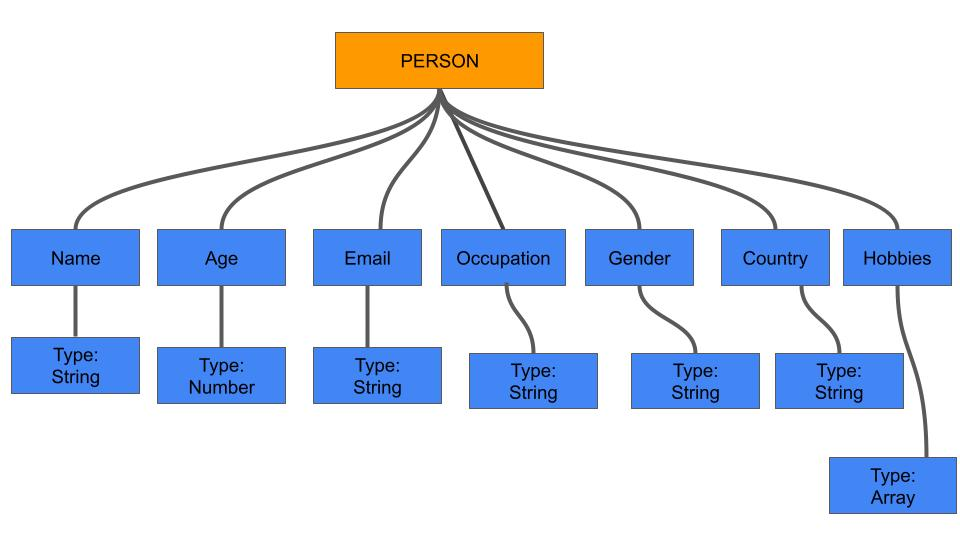
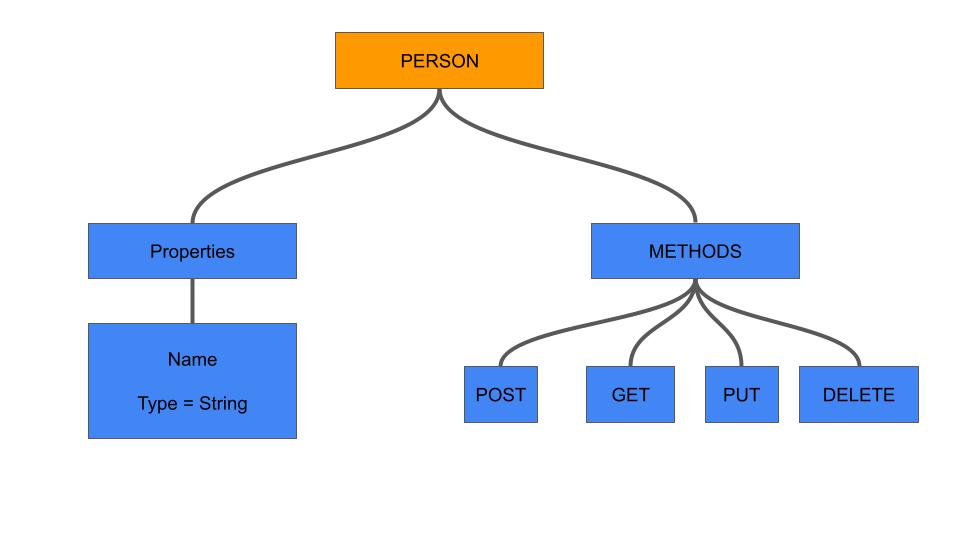
new commit

Changed region(s): [[0.0, 0.1778, 1.0, 0.9778], [0.125, 0.3259, 0.1875, 0.3556], [0.0938, 0.3556, 0.125, 0.3852]]

diff --git a/controllers/controllers.js b/controllers/controllers.js
@@ -2,7 +2,7 @@ const Person = require("../model/person")
 
 const getPerson = async (req, res) => {
     try{
-        const person = await Person.findOne({name: req.params.name});
+        const person = await Person.findOne({name: req.query.name});
         
         if(!person) {
             return res.status(404).json({message: 'Person not found'})
@@ -27,7 +27,7 @@ const addPerson = async (req, res) => {
 }
 const updatePerson = async (req, res) => {
     try{
-        const person = await Person.findOne({name: req.params.name});
+        const person = await Person.findOne({name: req.query.name});
 
         if(!person) {
             return res.status(404).json({message: 'Person not found'})
@@ -46,7 +46,7 @@ const updatePerson = async (req, res) => {
 
 const deletePerson = async (req, res) => {
     try{
-        const person = await Person.findOne({name: req.params.name})
+        const person = await Person.findOne({name: req.query.name})
 
         if(!person) {
             return res.status(404).json({message: 'Person not found'})

diff --git a/model/person.js b/model/person.js
@@ -7,29 +7,8 @@ const personSchema = new Schema({
         required: true,
         unique: true,
         lowercase: true
-    },
-    age:{
-        type: Number,
-        required: true
-    },
-    email: {
-        type: String,
-        required: true
-    },
-    occupation:{
-        type: String,
-        required: true
-    },
-    gender:{
-        type: String,
-        required: true
-    },
-    country:{
-        type: String,
-        required: true
-    },
-    hobbies: [String],
-}, { timestamps: true });
+    }
+});
 
 const Person = mongoose.model('Person', personSchema);
 

diff --git a/routes/routes.js b/routes/routes.js
@@ -6,10 +6,10 @@ const router = express.Router()
 
 router.post('/persons', addPerson);
 
-router.get('/persons/:name', getPerson);
+router.get('/persons', getPerson);
 
-router.put('/persons/:name', updatePerson);
+router.put('/persons', updatePerson);
 
-router.delete('/persons/:name', deletePerson)
+router.delete('/persons', deletePerson)
 
 module.exports = router;

diff --git a/DOCUMENTATION.md b/DOCUMENTATION.md
@@ -11,31 +11,13 @@
 #   // json
 #   {
 #        "name": "Alice",
-#       "age": 25,
-#        "email": "example@gmail.com",
-#       "occupation": "Hair Dresser",
-#       "gender": "F",
-#       "country": "Nigeria",
-#       "hobbies": ["Reading", "Cooking"],
 #   }
 
 #  ` // Response`
 #    {
 #       "_id": "64fed664160cdfdf8bc1a05d",
 #       "name": "Alice",
-#       "age": 25,
-#       "email": "example@gmail.com",
-#       "occupation": "Hair Dresser",
-#       "gender": "F",
-#       "country": "Nigeria",
-#       "hobbies": ["Reading", "Cooking"], 
-#       "createdAt": "2023-09-11T08:57:08.894+00:00",
-#       "updatedAt":"2023-09-11T09:58:54.875+00:00",
 #   }
-
-# Note: The `hobbies` property is of type `Array`
-
-    
 
 # - `/api/persons/:name`: This route accepts three types of requests: `*GET*`, `*PUT*`, and `*DELETE*`, with the name parameter in the URL. It performs different operations on the person resource based on the name:
 
@@ -49,14 +31,6 @@
 #    {
 #       "_id": "64fed664160cdfdf8bc1a05d",  
 #       "name": "Alice",
-#       "age": 25,
-#       "email": "example@gmail.com",
-#       "occupation": "Hair Dresser",
-#       "gender": "F",
-#       "country": "Nigeria",
-#       "hobbies": ["Reading", "Cooking"], 
-#       "createdAt": "2023-09-11T08:57:08.894+00:00",
-#       "updatedAt":"2023-09-11T09:58:54.875+00:00",
 #   }
         
 
@@ -68,7 +42,7 @@
 
 #   `Request body`
 #       {
-#           "age": 28
+#           "name": "Mary",
 #       }
 
 #       `// Response`
@@ -76,15 +50,7 @@
 #           "message": "Successfully updated",
 #           "newPerson": {
 #                   "_id": "64fed664160cdfdf8bc1a05d", 
-#                   "name": "Alice",
-#                    "age": 28,
-#                    "email": "example@gmail.com",
-#                    "occupation": "Hair Dresser",
-#                    "gender": "F",
-#                    "country": "Nigeria",
-#                    "hobbies": ["Reading", "Cooking"], 
-#                    "createdAt": "2023-09-11T08:57:08.894+00:00",
-#                    "updatedAt":"2023-09-11T09:58:54.875+00:00",
+#                   "name": "Mary",
 #                    }
 #        }
 

diff --git a/README.md b/README.md
@@ -35,26 +35,12 @@
 #   // json
 #   {
 #        "name": "Alice",
-#       "age": 25,
-#        "email": "example@gmail.com",
-#       "occupation": "Hair Dresser",
-#       "gender": "F",
-#       "country": "Nigeria",
-#       "hobbies": ["Reading", "Cooking"],
 #   }
 
 #   // Response
 #    {
-#       "_id": ObjectId("64fed664160cdfdf8bc1a05d")  
+#       "_id": "64fed664160cdfdf8bc1a05d",  
 #       "name": "Alice",
-#       "age": 25,
-#       "email": "example@gmail.com",
-#       "occupation": "Hair Dresser",
-#       "gender": "F",
-#       "country": "Nigeria",
-#       "hobbies": ["Reading", "Cooking"], 
-#       "createdAt": "2023-09-11T08:57:08.894+00:00",
-#       "updatedAt":"2023-09-11T09:58:54.875+00:00",
 #   }
 
 # Note: The `hobbies` property is of type `Array`
@@ -71,16 +57,8 @@
 
 #       // Response
 #    {
-#       "_id": ObjectId("64fed664160cdfdf8bc1a05d")  
+#       "_id": "64fed664160cdfdf8bc1a05d", 
 #       "name": "Alice",
-#       "age": 25,
-#       "email": "example@gmail.com",
-#       "occupation": "Hair Dresser",
-#       "gender": "F",
-#       "country": "Nigeria",
-#       "hobbies": ["Reading", "Cooking"], 
-#       "createdAt": "2023-09-11T08:57:08.894+00:00",
-#       "updatedAt":"2023-09-11T09:58:54.875+00:00",
 #   }
         
 
@@ -92,23 +70,15 @@
 
 #   Request body
 #       {
-#           "age": 28
+#           "name": "Mary"
 #       }
 
 #       // Response
 #       {
 #           "message": "Successfully updated",
 #           "newPerson": {
-#                   "_id": ObjectId("64fed664160cdfdf8bc1a05d")  
-#                   "name": "Alice",
-#                    "age": 28,
-#                    "email": "example@gmail.com",
-#                    "occupation": "Hair Dresser",
-#                    "gender": "F",
-#                    "country": "Nigeria",
-#                    "hobbies": ["Reading", "Cooking"], 
-#                    "createdAt": "2023-09-11T08:57:08.894+00:00",
-#                    "updatedAt":"2023-09-11T09:58:54.875+00:00",
+#                   "_id": "64fed664160cdfdf8bc1a05d",  
+#                   "name": "Mary",
 #                    }
 #        }
 
